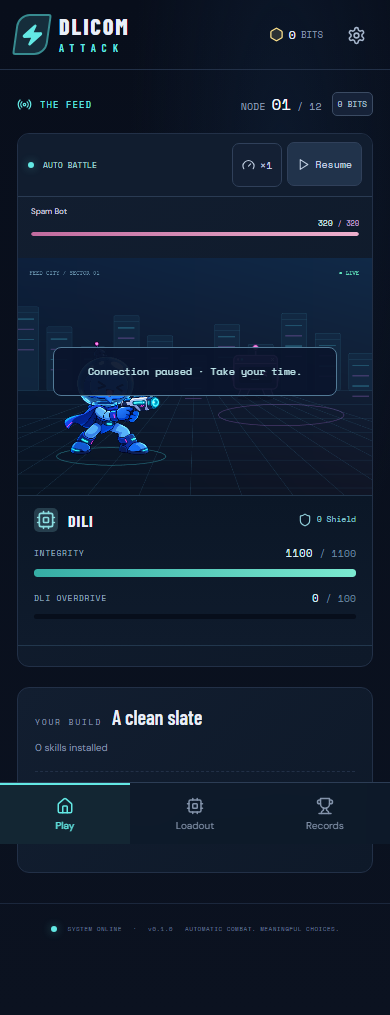
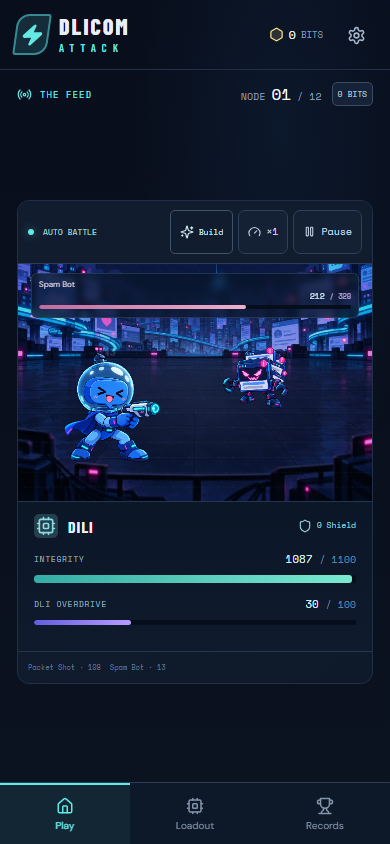
Refresh release screenshot package

diff --git a/scripts/captureRelease.ts b/scripts/captureRelease.ts
@@ -1,0 +1,40 @@
+import { mkdir } from 'node:fs/promises';
+import { chromium, expect } from '@playwright/test';
+
+const output = 'artifacts';
+const errors: string[] = [];
+await mkdir(output, { recursive: true });
+const browser = await chromium.launch();
+
+try {
+  const page = await browser.newPage({ viewport: { width: 1440, height: 960 } });
+  page.on('pageerror', (error) => errors.push(error.message));
+  await page.addInitScript(
+    "Object.defineProperty(crypto, 'randomUUID', "
+    + "{ configurable: true, value: () => 'release-capture-seed-2026' });",
+  );
+  await page.goto(process.env.RELEASE_CAPTURE_URL ?? 'http://127.0.0.1:5173');
+  await expect(page.getByRole('heading', { name: /Small hero/ })).toBeVisible();
+  await page.screenshot({ path: `${output}/home-desktop.png`, fullPage: true });
+
+  await page.setViewportSize({ width: 390, height: 844 });
+  await page.screenshot({ path: `${output}/home-mobile.png` });
+  await page.getByRole('button', { name: 'Enter the Network', exact: false }).first().click();
+  await page.getByRole('button', { name: /Data lane/ }).click();
+  await expect(page.locator('.battle-canvas canvas').first()).toBeVisible();
+  await expect(page.getByRole('button', { name: 'Pause', exact: true })).toBeVisible();
+  await page.waitForTimeout(1800);
+  await page.screenshot({ path: `${output}/battle-mobile.png` });
+
+  await page.getByRole('button', { name: '×1', exact: true }).click();
+  await expect(page.getByRole('heading', { name: 'A little more unreasonable.' }))
+    .toBeVisible({ timeout: 45000 });
+  await expect(page.locator('.skill-card')).toHaveCount(3);
+  await page.setViewportSize({ width: 1440, height: 960 });
+  await page.screenshot({ path: `${output}/skill-draft-desktop.png`, fullPage: true });
+
+  expect(errors).toEqual([]);
+  console.log('Captured current release screenshots in artifacts/.');
+} finally {
+  await browser.close();
+}

diff --git a/README.md b/README.md
@@ -6,6 +6,8 @@ Build an overpowered Dili, chain Dlicom-themed skills, and fight through a corru
 
 ![Dlicom Attack home](artifacts/home-desktop.png)
 
+Current release captures: [mobile home](artifacts/home-mobile.png), [mobile battle](artifacts/battle-mobile.png), and [desktop skill draft](artifacts/skill-draft-desktop.png). With the Vite dev server running, `npm run capture:release` regenerates these four screenshots in `artifacts/` using a fixed demo seed.
+
 ## Play locally
 
 Use Node.js 22 or newer.

diff --git a/dlicom-attack-docs/docs/16_RELEASE_AND_SUBMISSION.md b/dlicom-attack-docs/docs/16_RELEASE_AND_SUBMISSION.md
@@ -67,6 +67,8 @@ Prepare:
 - known limitations
 - version number
 
+The current screenshot set is checked in under `artifacts/`: desktop home, mobile home, mobile battle, and desktop skill draft. Start Vite and run `npm run capture:release` to refresh them from the current UI with a fixed demo seed. The 20–40 second gameplay clip and deployed game URL are still pending.
+
 ---
 
 ## 6. Suggested submission copy
